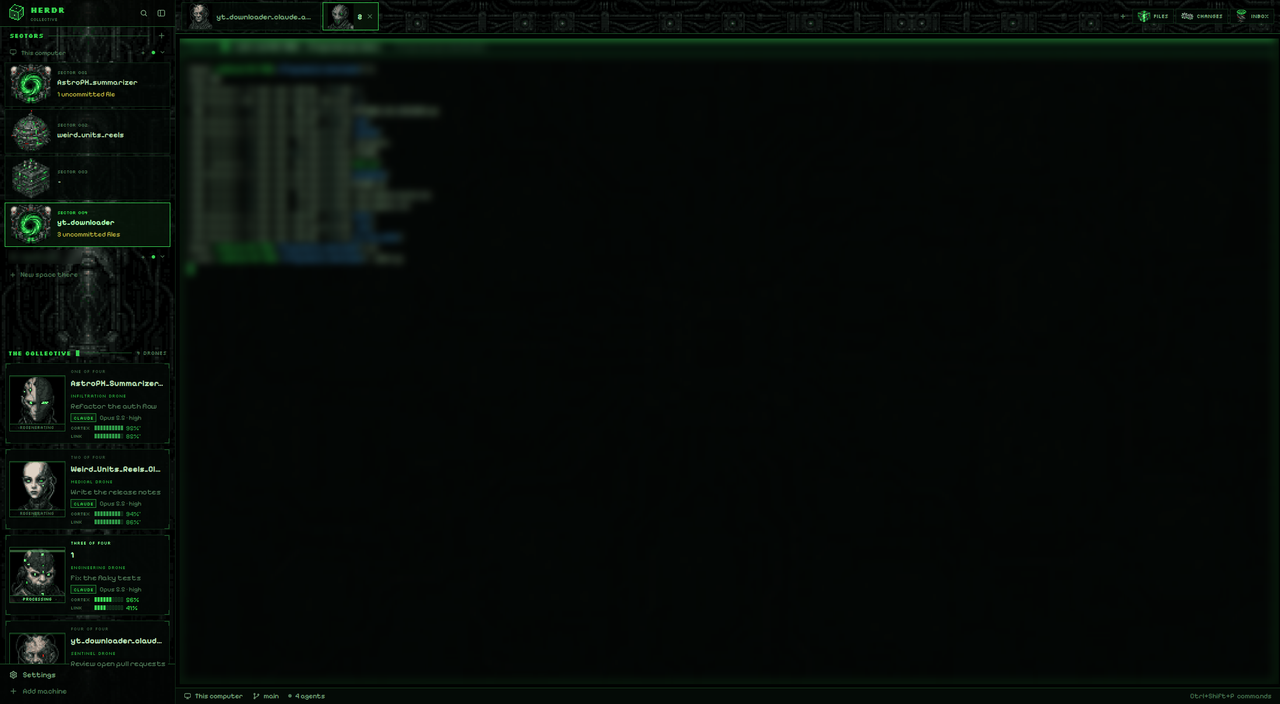
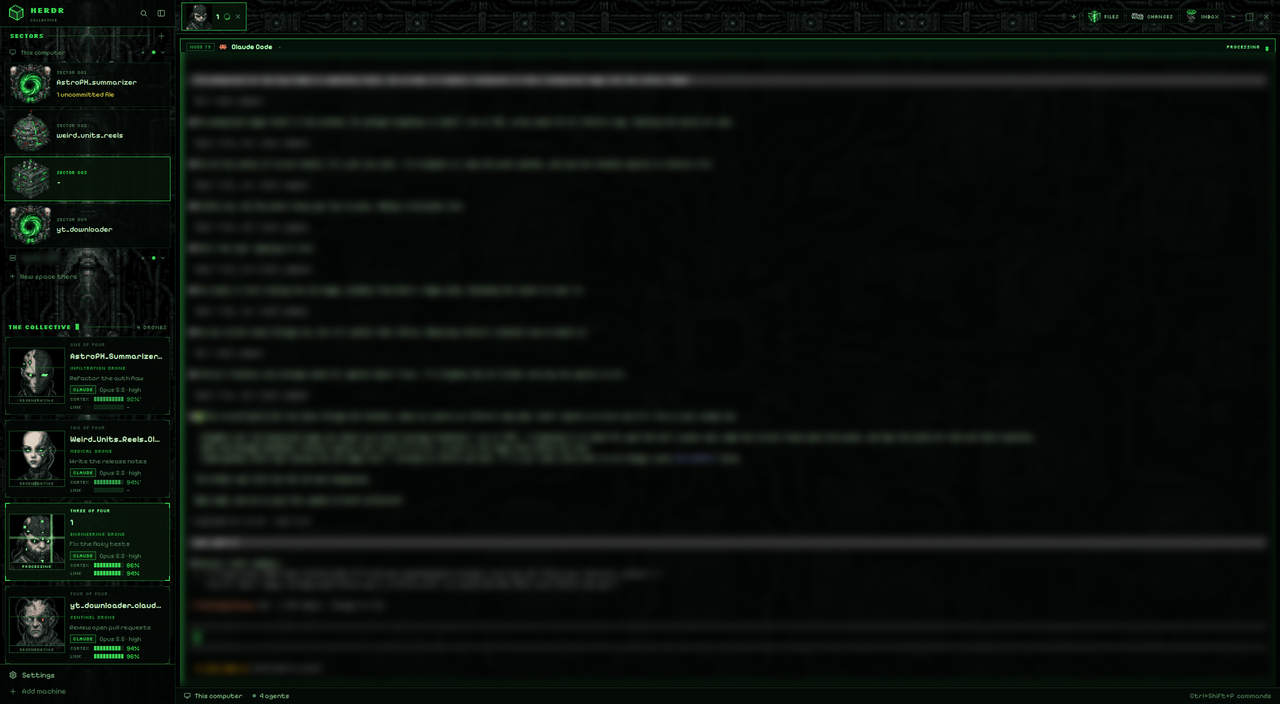
Brighter circuit-hull background behind terminals
Brighten the terminal background art (average 7/255 to about 55), tint the
hull green and light the circuit traces. Lower terminal_opacity from 0.72
to 0.5 so the art shows through like Inferno's map. Refresh the preview.

diff --git a/RECIPE.md b/RECIPE.md
@@ -1,6 +1,6 @@
 # Collective
 
-A cybernetic hive-mind window for Herdr, in pixel art. The left sidebar is a dark wall of regeneration alcoves. It lists spaces as numbered "Sectors", each with a pixel-art location (cube ship, sphere ship, alcoves, half-assimilated planet, data spire, energy vortex). Below them, "The Collective" shows every agent as a drone card: an animated 48×48 pixel-art face, a designation ("THREE OF FOUR"), a role, and two 10-segment LED power cells, CORTEX and LINK. The tab bar is a pixel conduit strip with a drone face on each tab. Terminals sit over a dark circuit-board hull at 72% opacity, in panes with a hive-green HUD header.
+A cybernetic hive-mind window for Herdr, in pixel art. The left sidebar is a dark wall of regeneration alcoves. It lists spaces as numbered "Sectors", each with a pixel-art location (cube ship, sphere ship, alcoves, half-assimilated planet, data spire, energy vortex). Below them, "The Collective" shows every agent as a drone card: an animated 48×48 pixel-art face, a designation ("THREE OF FOUR"), a role, and two 10-segment LED power cells, CORTEX and LINK. The tab bar is a pixel conduit strip with a drone face on each tab. Terminals sit over a dark circuit-board hull at 50% opacity, in panes with a hive-green HUD header.
 
 ![Collective](preview.png)
 
@@ -14,7 +14,7 @@ Left to right, top to bottom:
   - **The Collective** (agents): a header with "THE COLLECTIVE" in Silkscreen, a blinking green block cursor, a rule and "N DRONES". Then one card per agent.
   - **Footer**: 69px, `#020503e0` with a `#1f5c2c` top line. Settings and Add machine.
 - **Tab bar**: 58px over `mods/collective-chrome/art/strip.png`. Tabs are 48px, with a 44px drone face (when the tab maps to a role) and the name at 12.8px. The active tab is `#071409f0` with a 1px `#39d353` border and `#b8ffbf` text; others are `#030805d0` with `#0f2a16`. Then a + menu, and Files, Changes and Inbox buttons with pixel icons (`mods/collective-tabs/art/*.png`) and Silkscreen 8.5px labels. Window buttons sit on the right.
-- **Terminal area**: 8px padding and gap. Every pane, even a lone one, has a 28px `collective-pane` header, a 1px `#1f5c2c` border (`#39d353` when focused), radius 0, and `mods/collective-chrome/art/map.png` behind the terminal at `terminal_opacity` 0.72.
+- **Terminal area**: 8px padding and gap. Every pane, even a lone one, has a 28px `collective-pane` header, a 1px `#1f5c2c` border (`#39d353` when focused), radius 0, and `mods/collective-chrome/art/map.png` behind the terminal at `terminal_opacity` 0.5.
 - **Pane header**: `#020604` (`#04100a` focused). A framed "NODE T11" tag (the terminal id) in Silkscreen 7.5px `#2f9a48`, the program icon tinted `#39d353`, the name in 700, and the folder. On the right is the status. Split, zoom and close buttons appear on hover.
 - **Status bar**: 28px, Herdr's `workspace-status` over `mods/collective-chrome/art/footer.png`.
 - **Theme** `collective`: background `#030604`, foreground `#c4e8c0`, accent and working `#39d353`, blocked `#ff4433`, done `#5ce1e6`, idle `#3d5a45`, chrome `#040a06`, surface `#06100a`, raised `#0d1f13`, border `#1f5c2c99`. ANSI: `#030604 #e0443a #39d353 #c9c04a #4aa3d9 #9a6cd0 #3cc9b0 #c4e8c0 / #3d5a45 #ff6a5a #7dff8f #e6dc6a #7cc4ee #b894e6 #6ee6cf #ecfbe8`.
@@ -43,7 +43,7 @@ The background is `#030805e8`, or `#071409f0` when focused, with a 1px `#0f2a16`
 
 ## Built from
 
-- **Layout tree**: root `row`: `sidebar` column [`brand` block `collective-chrome`, `sidebar-lists` column [`spaces` `collective-spaces`, `agents` `collective-agents`], `sidebar-footer` `collective-chrome` with props `{footer:true}`] and `work` column [`tabs` `collective-tabs`, `work-body` row [`main` `{tab:"active"}` with a pane frame whose header is `collective-pane`, `panel` column (hidden) holding a `panel-body` stack of `files`/`changes`/`inbox`], `status` `workspace-status`]. Root: `theme: "collective"`, `ui_font: "Pixelify Sans"`, `terminal_opacity: 0.72`, `terminal_padding: [14,12]`, `titlebar: "none"`, divider 1px `#0f2a16`, `preview: "layouts/collective.png"`.
+- **Layout tree**: root `row`: `sidebar` column [`brand` block `collective-chrome`, `sidebar-lists` column [`spaces` `collective-spaces`, `agents` `collective-agents`], `sidebar-footer` `collective-chrome` with props `{footer:true}`] and `work` column [`tabs` `collective-tabs`, `work-body` row [`main` `{tab:"active"}` with a pane frame whose header is `collective-pane`, `panel` column (hidden) holding a `panel-body` stack of `files`/`changes`/`inbox`], `status` `workspace-status`]. Root: `theme: "collective"`, `ui_font: "Pixelify Sans"`, `terminal_opacity: 0.5`, `terminal_padding: [14,12]`, `titlebar: "none"`, divider 1px `#0f2a16`, `preview: "layouts/collective.png"`.
 - **collective-agents**: draws `agents()` and calls `setAgentOrder`. An 80 ms `cx.timer.every` clock calls `cx.notify()` while `window().active`, and every third tick otherwise. It skips this when there are no agents. Each render sets `left(-frame * 96)` on the strip image inside an `overflow_hidden` face box. The cells come from `data/traveler/sessions/<terminal>.json` (`{updatedAt, contextRemainingPct, fiveHourRemainingPct, sessionName, model, effort}`), read with `readTextFile` and `watchFolder`. Remote agents are read with `readTextFile(..., {on})` every 60 s. `lib.js` holds the role list, `designation()` and the animation table. `collective-tabs` has its own copy of `lib.js`.
 - **collective-chrome**: brand and footer. The cube is a 36-frame strip (`art/cube.webp`) stepped by its own 90 ms timer. The mod also holds the fonts, sounds and backgrounds.
 - **collective-pane**: a restyled clone of Herdr's `pane` mod. It reads `panes()` and runs `pane.split`, `pane.zoom` and `pane.close`.
@@ -67,6 +67,8 @@ The background is `#030805e8`, or `#071409f0` when focused, with a 1px `#0f2a16`
 - gpt-image-2 ignores transparent backgrounds and paints a fake checkerboard. Use gpt-image-1.5 with `background: "transparent"` for cut-outs.
 - `mod.clone` rewrites `mods/<name>/` paths. A later find-and-replace of the old name silently misses them; check `PORTRAITS_DIR` in `lib.js`.
 - The card cells share `data/traveler/sessions` with herdr-traveler and herdr-inferno on purpose, so any of their statuslines fills all three layouts.
+- Keep the terminal background art bright enough. Behind a near-black theme at 50% opacity, the art shows at only about a fifth of its brightness. The first map averaged 7/255 and the terminal looked solid black; it now averages about 55 with green-lit traces.
+- Herdr can keep drawing a cached layout background after the file changes. Switch layouts away and back to reload it.
 - Sounds are a global Herdr setting: they play in every layout.
 - The animation redraws the window about 12 times a second while Herdr is focused, and about 4 times a second otherwise.
 
